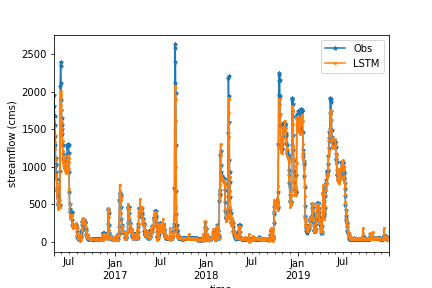
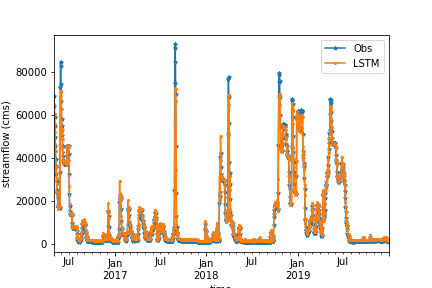
cms to cfs

diff --git a/Flow_RM/main.py b/Flow_RM/main.py
@@ -89,7 +89,7 @@ data['daily_rain'] = data['rain1'] + data['rain2'] + data['rain3'] + data['rain4
 
 
 data = data[['PET', 'daily_rain', 'flow']]
-#data = data[['flow']]
+data = data[['flow']] * 35.314666212661
 
 #data.to_csv('08066500_nldas.csv')
 
@@ -110,7 +110,7 @@ train_df['flow'].plot(label='train')
 val_df['flow'].plot(label='val')
 test_df['flow'].plot(label='test')
 ax = plt.gca()
-ax.set_ylabel('streamflow (cms)')
+ax.set_ylabel('streamflow (cfs)')
 ax.legend()
 
 
